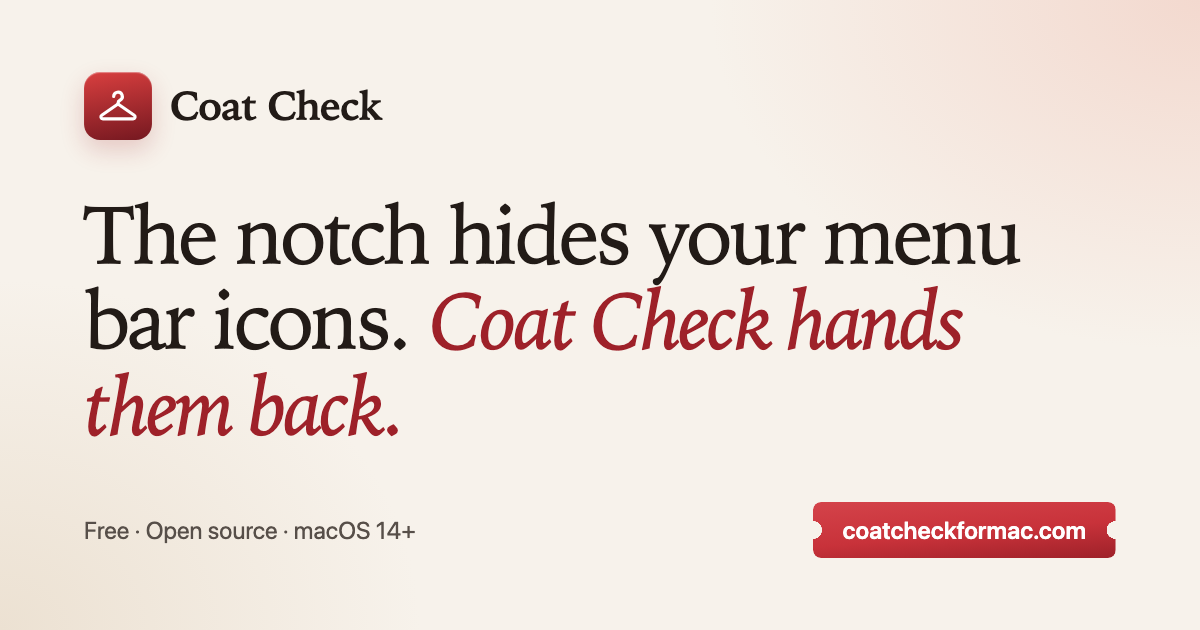
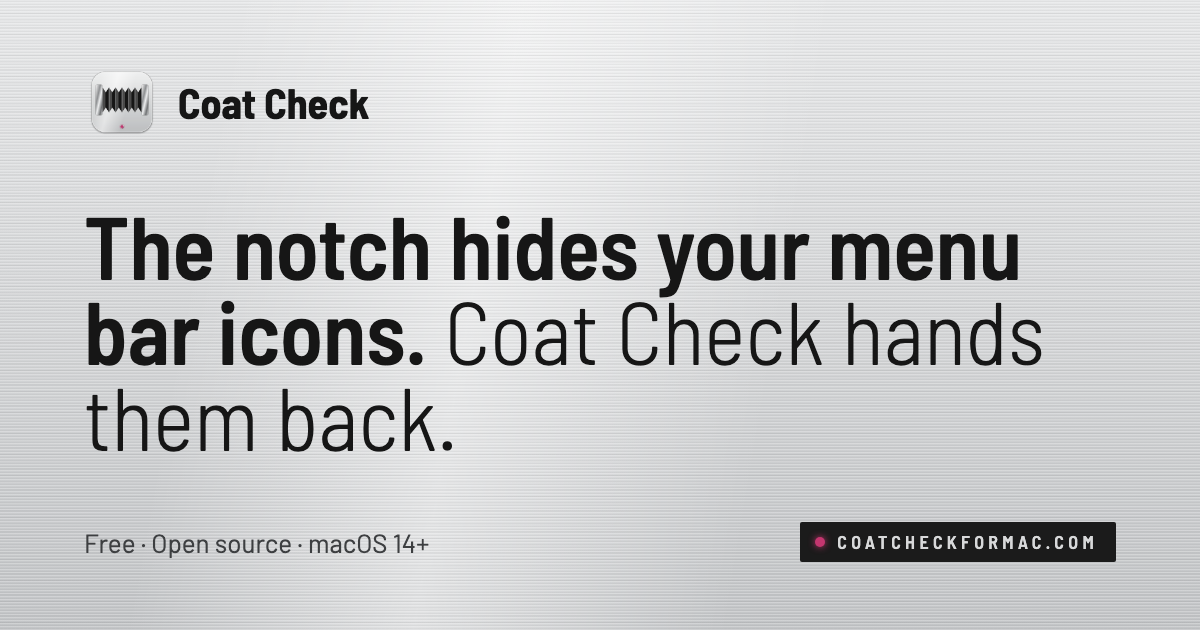
Render the static social card in Brushed

diff --git a/site/scripts/og.html b/site/scripts/og.html
@@ -2,6 +2,7 @@
 <html lang="en">
 <head>
 <meta charset="utf-8">
+<link rel="stylesheet" href="https://fonts.googleapis.com/css2?family=Barlow:wght@400;500;600&family=Barlow+Semi+Condensed:wght@300;600;700&display=swap">
 <style>
   html, body {margin: 0; width: 1200px; height: 630px; overflow: hidden}
   body {
@@ -9,23 +10,23 @@
     display: flex;
     flex-direction: column;
     justify-content: space-between;
-    padding: 72px 84px;
-    font-family: -apple-system, BlinkMacSystemFont, sans-serif;
-    color: #221b17;
-    background: radial-gradient(700px 500px at 100% 0, #f3d9cf, transparent 70%), radial-gradient(600px 500px at 0 100%, #ece1d2, transparent 70%), #f7f2eb;
+    padding: 64px 84px 68px;
+    font-family: "Barlow", system-ui, sans-serif;
+    color: #161616;
+    background: repeating-linear-gradient(0deg, rgba(255,255,255,.22) 0 1px, rgba(0,0,0,.035) 1px 2px, transparent 2px 3px), repeating-linear-gradient(0deg, rgba(0,0,0,.035) 0 1px, transparent 1px 7px), linear-gradient(100deg, rgba(255,255,255,0) 18%, rgba(255,255,255,.5) 40%, rgba(255,255,255,0) 64%), linear-gradient(180deg, #e7e8e9, #c3c5c7);
   }
-  .brand {display: flex; align-items: center; gap: 18px; font-family: ui-serif, "New York", "Iowan Old Style", Georgia, serif; font-size: 40px; font-weight: 600; letter-spacing: -.8px}
-  .mark {display: grid; place-items: center; width: 68px; height: 68px; border-radius: 16px; background: linear-gradient(170deg, #d93f3f, #751820); box-shadow: inset 0 1px 1px #ffffff66, 0 10px 24px #9e212933}
-  h1 {margin: 0; max-width: 980px; font-family: ui-serif, "New York", "Iowan Old Style", Georgia, serif; font-size: 82px; font-weight: 500; line-height: 1.04; letter-spacing: -2.8px}
-  em {color: #9e2129}
-  .foot {display: flex; justify-content: space-between; align-items: center; font-size: 24px; color: #574f49}
-  .ticket {padding: 14px 30px; border-radius: 8px; color: #fff; font-weight: 600; background: linear-gradient(175deg, #d4434a, #c8323a 55%, #9e2129);
-    -webkit-mask: radial-gradient(circle 9px at 0 50%, #0000 98%, #000) left / 51% 100% no-repeat, radial-gradient(circle 9px at 100% 50%, #0000 98%, #000) right / 51% 100% no-repeat}
+  .brand {display: flex; align-items: center; gap: 18px; font: 700 42px/1 "Barlow Semi Condensed", sans-serif}
+  .brand img {width: 76px; height: 76px}
+  h1 {margin: 0; max-width: 1000px; font: 600 88px/.97 "Barlow Semi Condensed", sans-serif}
+  h1 span {font-weight: 300}
+  .foot {display: flex; justify-content: space-between; align-items: center; font-size: 26px; color: #3d3f41}
+  .plate {display: inline-flex; gap: 12px; align-items: center; font: 600 18px/1 "Barlow Semi Condensed", sans-serif; letter-spacing: .24em; text-transform: uppercase; background: #1b1b1b; color: #d8d9da; padding: 11px 18px 11px 15px; border-radius: 2px}
+  .plate i {width: 10px; height: 10px; border-radius: 50%; background: #c4366f; box-shadow: 0 0 7px #c4366f}
 </style>
 </head>
 <body>
-  <div class="brand"><div class="mark"><svg width="46" height="46" viewBox="0 0 32 32"><path d="M13 9.4a3 3 0 1 1 4.4 2.6c-.9.5-1.4 1.1-1.4 2v.6" fill="none" stroke="#fff" stroke-width="2.2" stroke-linecap="round"/><path d="M16 14.6 4.7 22.4c-1.1.8-.6 2.5.8 2.5h21c1.4 0 1.9-1.7.8-2.5L16 14.6Z" fill="none" stroke="#fff" stroke-width="2.2" stroke-linejoin="round"/></svg></div>Coat Check</div>
-  <h1>The notch hides your menu bar icons. <em>Coat Check hands them back.</em></h1>
-  <div class="foot"><span>Free · Open source · macOS 14+</span><span class="ticket">coatcheckformac.com</span></div>
+  <div class="brand"><img src="../src/assets/family/coat.png" alt="">Coat Check</div>
+  <h1>The notch hides your menu bar icons. <span>Coat Check hands them back.</span></h1>
+  <div class="foot"><span>Free · Open source · macOS 14+</span><span class="plate"><i></i>coatcheckformac.com</span></div>
 </body>
 </html>
